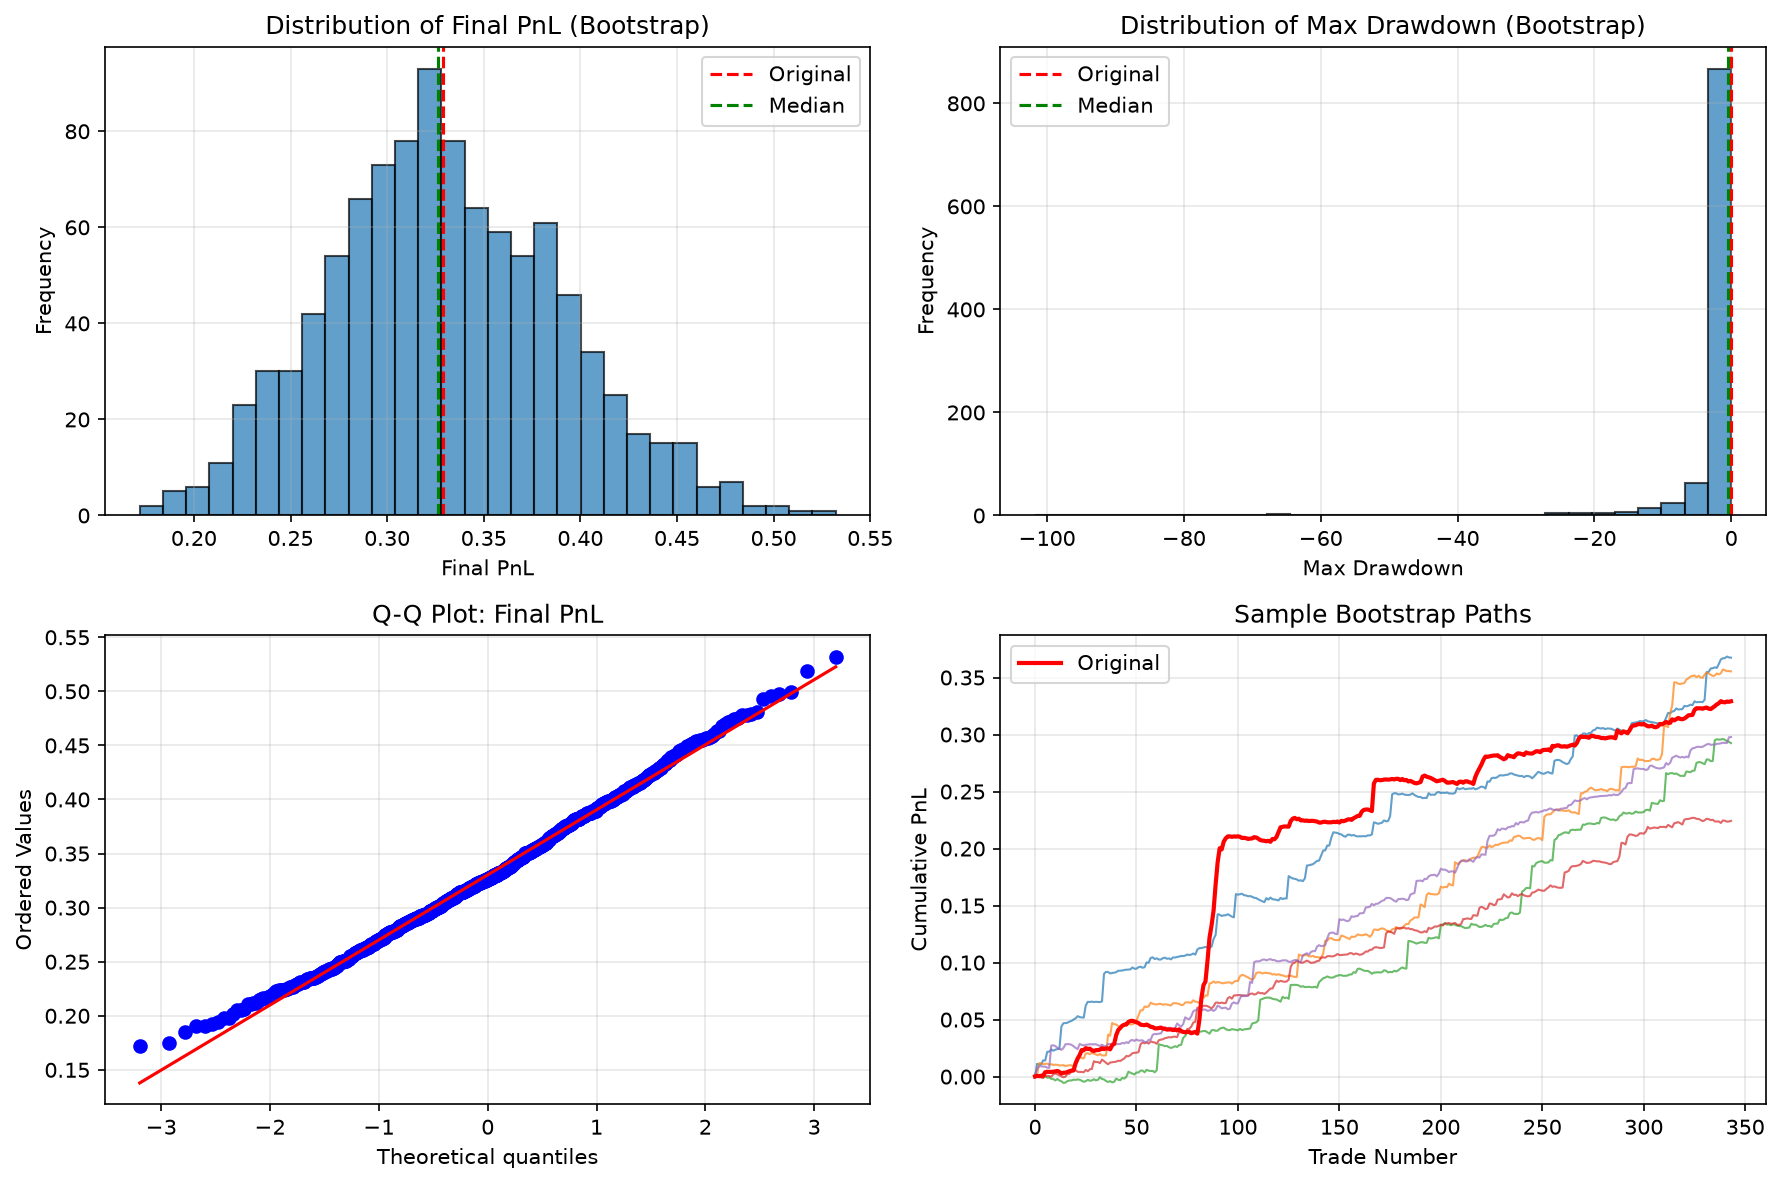
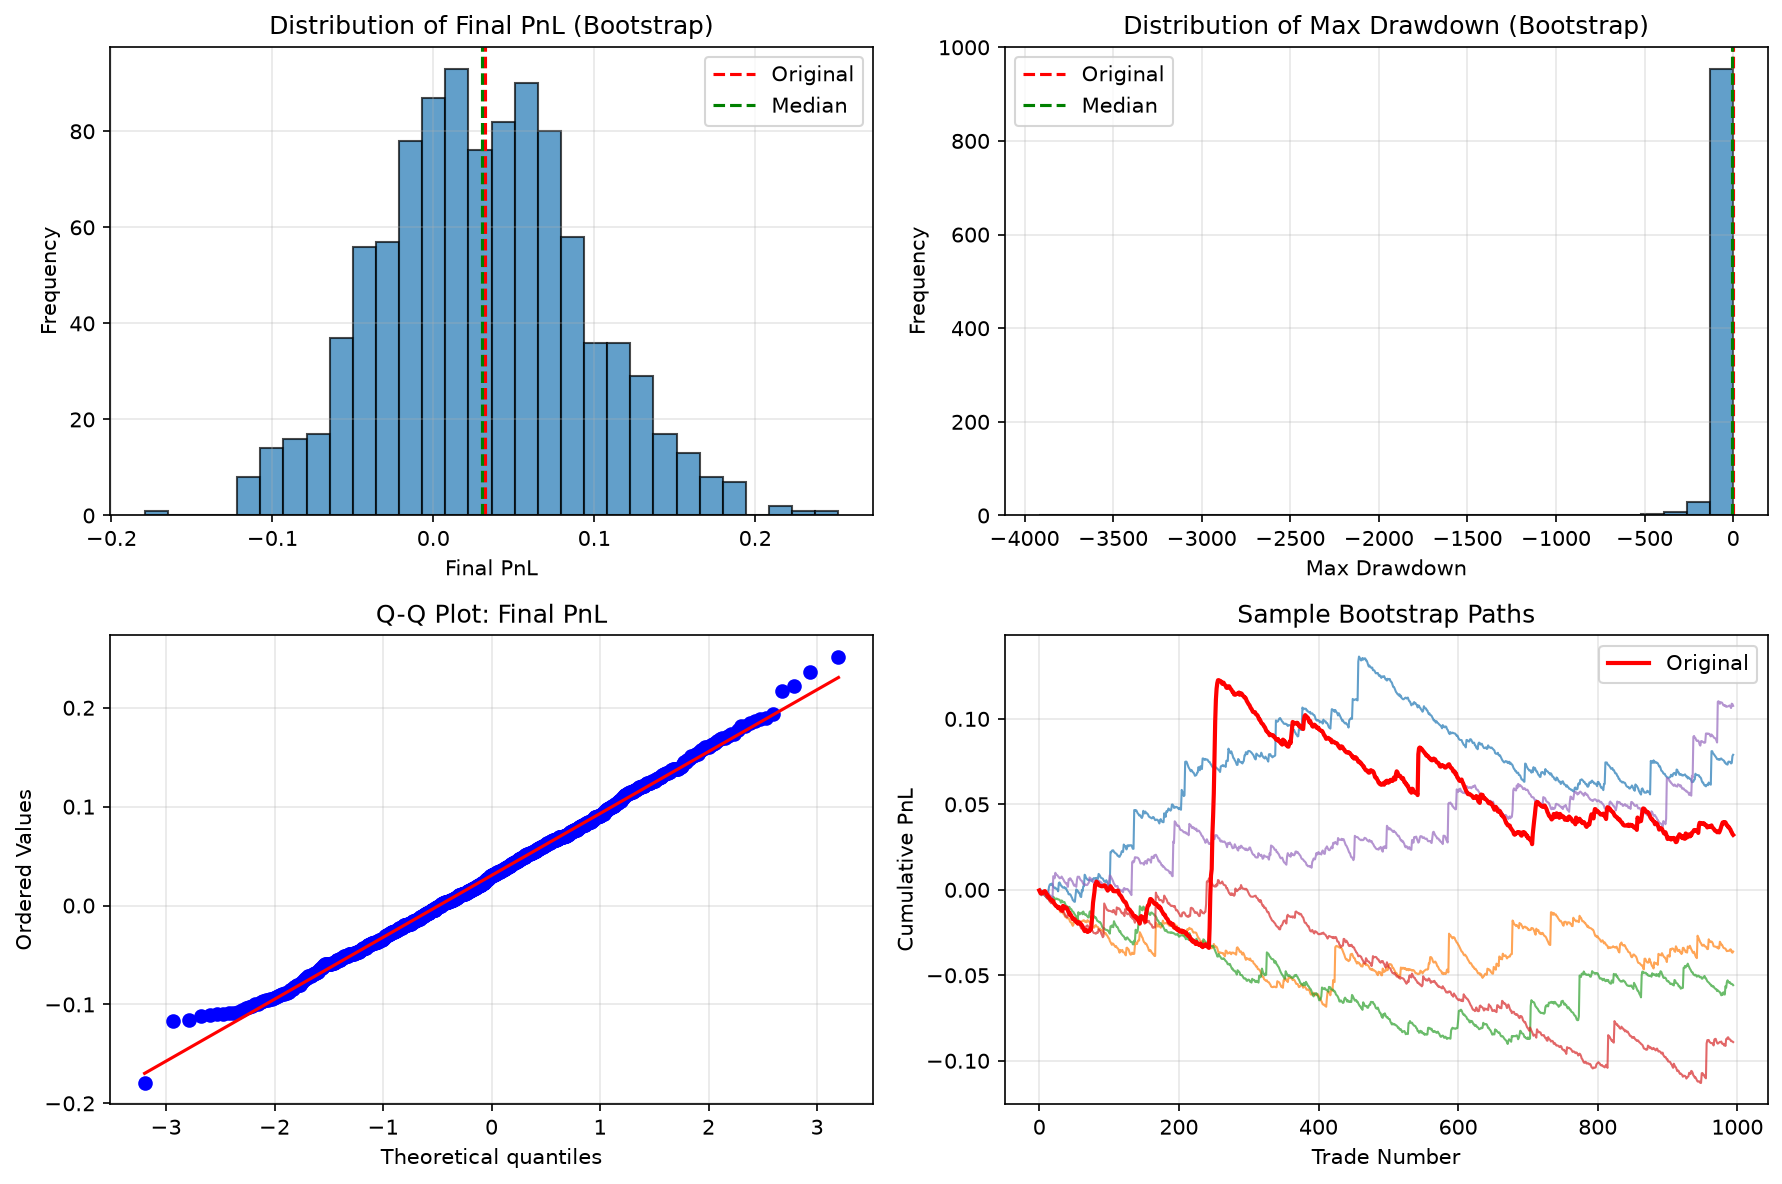
fix: correct trades/month calculation; pick config per spec; honest compliance table

diff --git a/src/analysis/monte_carlo.py b/src/analysis/monte_carlo.py
@@ -3,8 +3,8 @@ import numpy as np
 import matplotlib.pyplot as plt
 import os
 
-# Load the winning trades file (MF=0.0005, slippage 1.0x from baseline)
-trades_file = 'results_phase2/multi_asset_trades_mf0_0005_slip1.0x.csv'
+# Load the winning trades file (MF=0.0003 from chosen config, baseline slippage)
+trades_file = 'results_phase2/multi_asset_trades_mf0_0003_slip1.0x.csv'
 if not os.path.exists(trades_file):
     # Fallback to any available trades file
     import glob
@@ -16,6 +16,10 @@ if not os.path.exists(trades_file):
 
 df = pd.read_csv(trades_file)
 print(f"Loaded {len(df)} trades from {trades_file}")
+
+# Ensure we have datetime columns
+df['entry_time'] = pd.to_datetime(df['entry_time'])
+df['exit_time'] = pd.to_datetime(df['exit_time'])
 
 # Extract returns (net_pnl_pct column, convert to decimal)
 returns = df['net_pnl_pct'].values / 100.0
